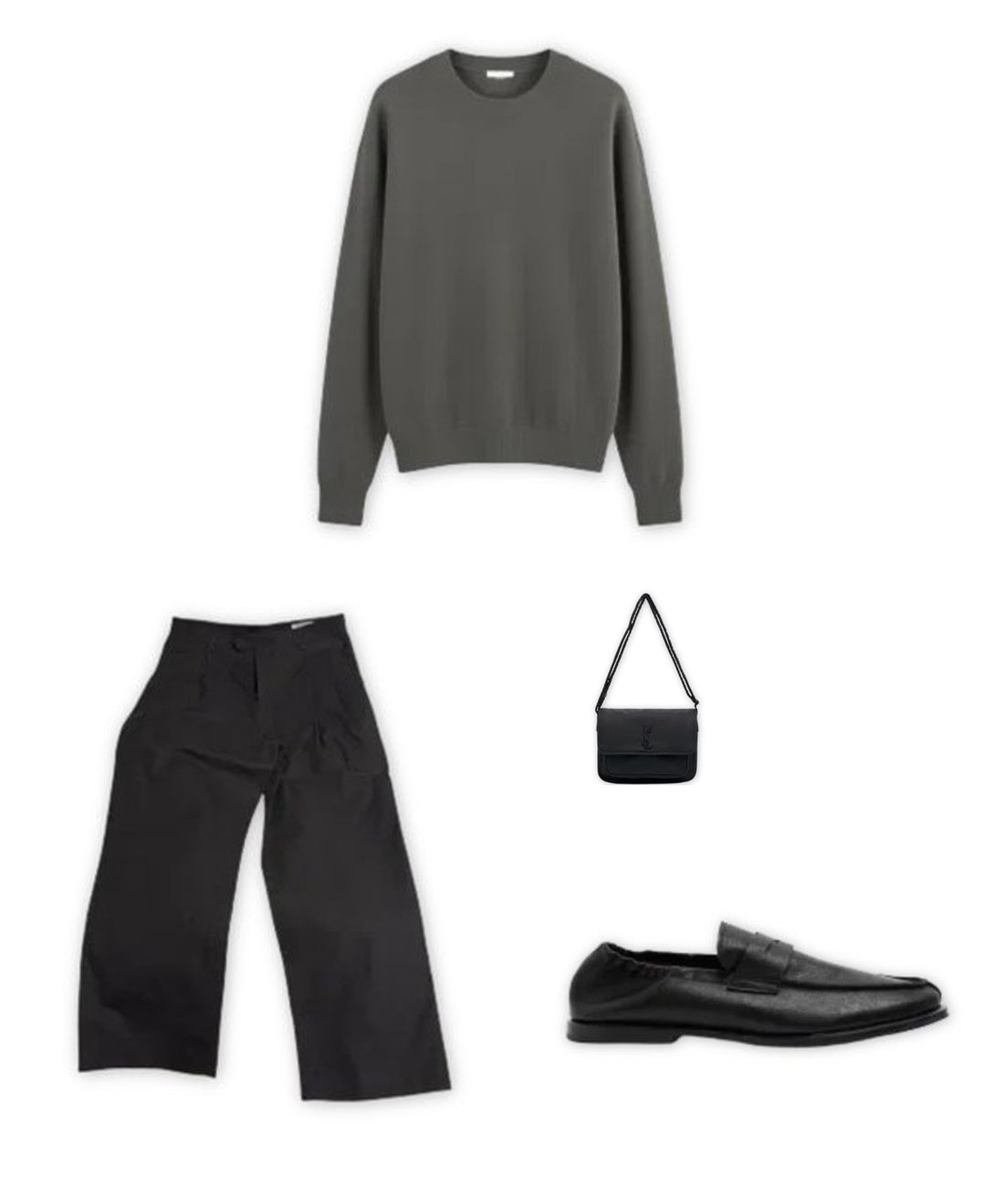
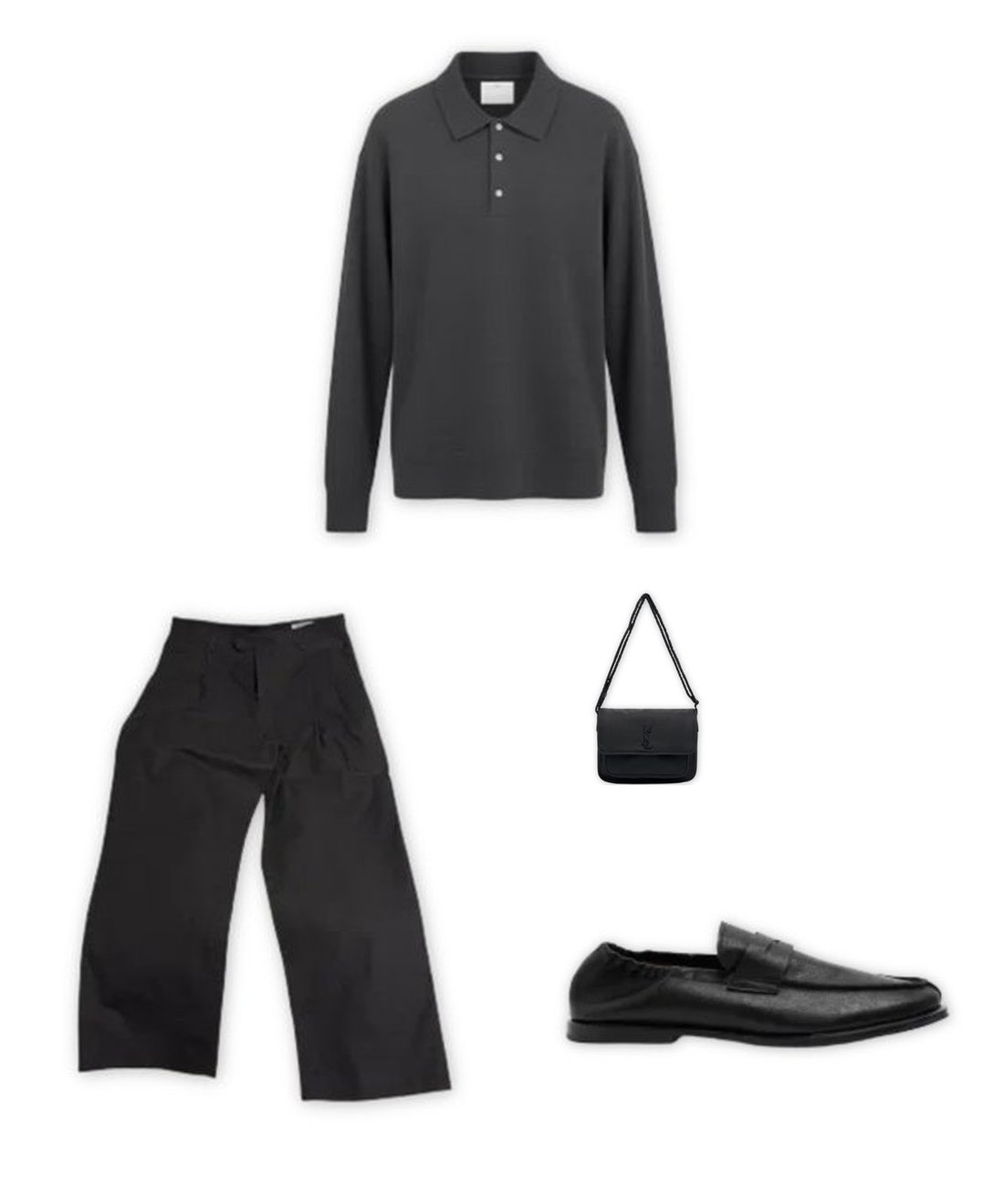
Trip: navy Margiela coat, Pottery charcoal polo knit for day 2

Changed region(s): [[0.3091, 0.0308, 0.68, 0.4615]]

diff --git a/docs/archive/2026-11-17.html b/docs/archive/2026-11-17.html
@@ -72,7 +72,7 @@ footer { font-size:12px; color:var(--muted); }
 <div class="ribbon"><span class="chip">부산 기장군 · 흐리고 저녁부터 비</span><span class="chip">기온 <b>12° / 17°</b></span>
 <span class="chip rain">강수확률 <b>60%</b></span><span class="chip tpo">1박 2일 바닷가 리조트 · 첫째 날</span></div>
 <p class="note">낮엔 17° 안팎으로 포근하지만 바닷바람이 차고, 저녁부터 새벽까지 비가 와요. 낮엔 니트 집업 하나로, 저녁엔 퀼팅 코트를 더하세요. 사용자가 알려준 1박 2일 바닷가 리조트 일정이에요. 편안함과 고급스러움을 함께 원해서, 부드러운 니트와 와이드 바지에 좋은 브랜드 아우터를 더했어요.</p>
-<div class="switch"><button type="button" class="ghost" id="prev" disabled>이전 코디</button><button type="button" id="next">다른 코디 추천</button><span class="count" id="count">1 / 2</span></div><div id="outfits"><article class="outfit main" data-i="0"><figure><img src="../img/2026-11-17-1.jpg" alt="ZAVANAS 블랙 긴팔 티 + STONE ISLAND 네이비 니트 집업 코디" loading="lazy"></figure><div class="desc"><div class="otitle"><span class="badge">추천</span><h3>ZAVANAS 블랙 긴팔 티 + STONE ISLAND 네이비 니트 집업</h3></div><p class="why">이동하고 바닷가를 걷는 낮 코디예요. 블랙 긴팔 티와 블랙 와이드 바지 위에 스톤아일랜드 네이비 니트 집업 하나로 포인트를 줬어요. 안은 가볍게, 겉은 좋은 니트로 입어 편하면서 고급스러워요.</p><ul class="items"><li><img class="thumb" src="../items/top-035.jpg" alt="" loading="lazy"><div><span class="part">긴팔 티</span><strong>ZAVANAS 블랙 긴팔 티</strong><p>니트 집업 안에 가볍게 입는 긴팔 티예요. 잘 때 입어도 돼요.</p></div></li><li><img class="thumb" src="../items/outer-006.jpg" alt="" loading="lazy"><div><span class="part">니트 집업</span><strong>STONE ISLAND 네이비 니트 집업</strong><p>유일한 포인트 컬러(네이비)예요.</p></div></li><li><img class="thumb" src="../items/bottom-034.jpg" alt="" loading="lazy"><div><span class="part">긴바지</span><strong>블랭크룸 블랙 와이드 긴바지</strong><p>편한 와이드 바지예요. 이틀 내내 입어요.</p></div></li><li><img class="thumb" src="../items/shoes-005.jpg" alt="" loading="lazy"><div><span class="part">로퍼</span><strong>로스트가든 블랙 레더 로퍼</strong><p>말랑한 레더 로퍼라 걷기 편하고 비에도 괜찮아요. 이틀 내내 신어요.</p></div></li><li><img class="thumb" src="../items/acc-001.jpg" alt="" loading="lazy"><div><span class="part">크로스백</span><strong>생로랑 블랙 나일론 크로스백</strong><p>비에 강한 나일론 크로스백이에요.</p></div></li></ul></div></article><article class="outfit main" data-i="1" hidden><figure><img src="../img/2026-11-17-2.jpg" alt="저녁 다이닝: 같은 옷 + 메종 마르지엘라 블랙 퀼팅 코트 코디" loading="lazy"></figure><div class="desc"><div class="otitle"><span class="badge alt">대안</span><h3>저녁 다이닝: 같은 옷 + 메종 마르지엘라 블랙 퀼팅 코트</h3></div><p class="why">옷을 갈아입지 않고 마르지엘라 퀼팅 코트와 실버 반지만 더해 저녁 자리에 맞췄어요. 짐을 늘리지 않으면서 비와 바람도 막아요.</p><ul class="items"><li><img class="thumb" src="../items/top-035.jpg" alt="" loading="lazy"><div><span class="part">긴팔 티</span><strong>ZAVANAS 블랙 긴팔 티</strong><p>낮에 입은 그대로예요.</p></div></li><li><img class="thumb" src="../items/outer-006.jpg" alt="" loading="lazy"><div><span class="part">니트 집업</span><strong>STONE ISLAND 네이비 니트 집업</strong><p>코트 안에 입어요.</p></div></li><li><img class="thumb" src="../items/outer-003.jpg" alt="" loading="lazy"><div><span class="part">코트</span><strong>메종 마르지엘라 블랙 퀼팅 코트</strong><p>저녁 비와 바람을 막는 코트예요. 둘째 날에도 입어요.</p></div></li><li><img class="thumb" src="../items/bottom-034.jpg" alt="" loading="lazy"><div><span class="part">긴바지</span><strong>블랭크룸 블랙 와이드 긴바지</strong><p>낮에 입은 그대로예요.</p></div></li><li><img class="thumb" src="../items/shoes-005.jpg" alt="" loading="lazy"><div><span class="part">로퍼</span><strong>로스트가든 블랙 레더 로퍼</strong><p>낮에 신은 그대로예요.</p></div></li><li><img class="thumb" src="../items/acc-004.jpg" alt="" loading="lazy"><div><span class="part">반지</span><strong>메종 마르지엘라 실버 반지</strong><p>실버 반지로 저녁 자리 디테일을 더해요.</p></div></li></ul></div></article></div><section class="refs"><h2>참고한 스타일</h2><ul><li><a href="https://www.allurekorea.com/2026/10/04/%eb%bb%94%ed%95%9c-%ea%b0%80%ec%a3%bd-%ec%9e%ac%ed%82%b7%ec%9d%b4-%ec%a7%80%ea%b2%b9%eb%8b%a4%eb%a9%b4-%ec%98%ac%ea%b0%80%ec%9d%84%ec%97%94-%ec%9d%b4%ea%b2%83%ec%9d%84-%ec%9e%85/" target="_blank" rel="noopener">얼루어코리아 · 뻔한 가죽 재킷이 지겹다면 올가을엔 이것을 입어</a></li><li><a href="https://www.gqkorea.co.kr/2024/11/21/%EA%B0%80%EC%A3%BD-%EC%9E%AC%ED%82%B7%EC%9D%98-%EB%A9%8B%EC%9D%84-%EB%AA%A8%EB%A5%B4%EB%8A%94-%EB%8B%B9%EC%8B%A0%EC%9D%B4-%EC%9D%BD%EC%96%B4%EC%95%BC-%ED%95%A0-%EC%B5%9C%EC%8B%A0-%EA%B0%80%EC%A3%BD/" target="_blank" rel="noopener">GQ코리아 · 가죽 재킷의 멋을 모르는 당신이 읽어야 할 최신 가죽</a></li><li><a href="https://sanvt.com/journal/monochrome-outfits-for-men/" target="_blank" rel="noopener">SANVT · Monochrome outfits for men</a></li></ul></section>
+<div class="switch"><button type="button" class="ghost" id="prev" disabled>이전 코디</button><button type="button" id="next">다른 코디 추천</button><span class="count" id="count">1 / 2</span></div><div id="outfits"><article class="outfit main" data-i="0"><figure><img src="../img/2026-11-17-1.jpg" alt="ZAVANAS 블랙 긴팔 티 + STONE ISLAND 네이비 니트 집업 코디" loading="lazy"></figure><div class="desc"><div class="otitle"><span class="badge">추천</span><h3>ZAVANAS 블랙 긴팔 티 + STONE ISLAND 네이비 니트 집업</h3></div><p class="why">이동하고 바닷가를 걷는 낮 코디예요. 블랙 긴팔 티와 블랙 와이드 바지 위에 스톤아일랜드 네이비 니트 집업 하나로 포인트를 줬어요. 안은 가볍게, 겉은 좋은 니트로 입어 편하면서 고급스러워요.</p><ul class="items"><li><img class="thumb" src="../items/top-035.jpg" alt="" loading="lazy"><div><span class="part">긴팔 티</span><strong>ZAVANAS 블랙 긴팔 티</strong><p>니트 집업 안에 가볍게 입는 긴팔 티예요. 잘 때 입어도 돼요.</p></div></li><li><img class="thumb" src="../items/outer-006.jpg" alt="" loading="lazy"><div><span class="part">니트 집업</span><strong>STONE ISLAND 네이비 니트 집업</strong><p>유일한 포인트 컬러(네이비)예요.</p></div></li><li><img class="thumb" src="../items/bottom-034.jpg" alt="" loading="lazy"><div><span class="part">긴바지</span><strong>블랭크룸 블랙 와이드 긴바지</strong><p>편한 와이드 바지예요. 이틀 내내 입어요.</p></div></li><li><img class="thumb" src="../items/shoes-005.jpg" alt="" loading="lazy"><div><span class="part">로퍼</span><strong>로스트가든 블랙 레더 로퍼</strong><p>말랑한 레더 로퍼라 걷기 편하고 비에도 괜찮아요. 이틀 내내 신어요.</p></div></li><li><img class="thumb" src="../items/acc-001.jpg" alt="" loading="lazy"><div><span class="part">크로스백</span><strong>생로랑 블랙 나일론 크로스백</strong><p>비에 강한 나일론 크로스백이에요.</p></div></li></ul></div></article><article class="outfit main" data-i="1" hidden><figure><img src="../img/2026-11-17-2.jpg" alt="저녁 다이닝: 같은 옷 + 메종 마르지엘라 네이비 퀼팅 코트 코디" loading="lazy"></figure><div class="desc"><div class="otitle"><span class="badge alt">대안</span><h3>저녁 다이닝: 같은 옷 + 메종 마르지엘라 네이비 퀼팅 코트</h3></div><p class="why">옷을 갈아입지 않고 마르지엘라 퀼팅 코트와 실버 반지만 더해 저녁 자리에 맞췄어요. 짐을 늘리지 않으면서 비와 바람도 막아요.</p><ul class="items"><li><img class="thumb" src="../items/top-035.jpg" alt="" loading="lazy"><div><span class="part">긴팔 티</span><strong>ZAVANAS 블랙 긴팔 티</strong><p>낮에 입은 그대로예요.</p></div></li><li><img class="thumb" src="../items/outer-006.jpg" alt="" loading="lazy"><div><span class="part">니트 집업</span><strong>STONE ISLAND 네이비 니트 집업</strong><p>코트 안에 입어요.</p></div></li><li><img class="thumb" src="../items/outer-021.jpg" alt="" loading="lazy"><div><span class="part">코트</span><strong>MASION MARGIELA 네이비 퀼팅 코트</strong><p>저녁 비와 바람을 막는 코트예요. 둘째 날에도 입어요.</p></div></li><li><img class="thumb" src="../items/bottom-034.jpg" alt="" loading="lazy"><div><span class="part">긴바지</span><strong>블랭크룸 블랙 와이드 긴바지</strong><p>낮에 입은 그대로예요.</p></div></li><li><img class="thumb" src="../items/shoes-005.jpg" alt="" loading="lazy"><div><span class="part">로퍼</span><strong>로스트가든 블랙 레더 로퍼</strong><p>낮에 신은 그대로예요.</p></div></li><li><img class="thumb" src="../items/acc-004.jpg" alt="" loading="lazy"><div><span class="part">반지</span><strong>메종 마르지엘라 실버 반지</strong><p>실버 반지로 저녁 자리 디테일을 더해요.</p></div></li></ul></div></article></div><section class="refs"><h2>참고한 스타일</h2><ul><li><a href="https://www.allurekorea.com/2026/10/04/%eb%bb%94%ed%95%9c-%ea%b0%80%ec%a3%bd-%ec%9e%ac%ed%82%b7%ec%9d%b4-%ec%a7%80%ea%b2%b9%eb%8b%a4%eb%a9%b4-%ec%98%ac%ea%b0%80%ec%9d%84%ec%97%94-%ec%9d%b4%ea%b2%83%ec%9d%84-%ec%9e%85/" target="_blank" rel="noopener">얼루어코리아 · 뻔한 가죽 재킷이 지겹다면 올가을엔 이것을 입어</a></li><li><a href="https://www.gqkorea.co.kr/2024/11/21/%EA%B0%80%EC%A3%BD-%EC%9E%AC%ED%82%B7%EC%9D%98-%EB%A9%8B%EC%9D%84-%EB%AA%A8%EB%A5%B4%EB%8A%94-%EB%8B%B9%EC%8B%A0%EC%9D%B4-%EC%9D%BD%EC%96%B4%EC%95%BC-%ED%95%A0-%EC%B5%9C%EC%8B%A0-%EA%B0%80%EC%A3%BD/" target="_blank" rel="noopener">GQ코리아 · 가죽 재킷의 멋을 모르는 당신이 읽어야 할 최신 가죽</a></li><li><a href="https://sanvt.com/journal/monochrome-outfits-for-men/" target="_blank" rel="noopener">SANVT · Monochrome outfits for men</a></li></ul></section>
 <footer>사진은 Acloset에 등록한 내 옷이에요.</footer></div>
 <script>
 (function(){

diff --git a/docs/index.html b/docs/index.html
@@ -72,7 +72,7 @@ footer { font-size:12px; color:var(--muted); }
 <div class="ribbon"><span class="chip">부산 기장군 · 비 그친 뒤 쌀쌀</span><span class="chip">기온 <b>7° / 13°</b></span>
 <span class="chip rain">강수확률 <b>43%</b></span><span class="chip tpo">1박 2일 바닷가 리조트 · 둘째 날</span></div>
 <p class="note">전날 비가 그친 뒤 기온이 7~13°로 떨어져요. 아침 바닷가는 더 쌀쌀하니 도톰한 니트에 코트까지 입으세요. 사용자가 알려준 1박 2일 일정의 둘째 날이에요. 아침 산책 후 체크아웃해서 돌아오는 날이라 편한 코디로 골랐어요.</p>
-<div class="switch"><button type="button" class="ghost" id="prev" disabled>이전 코디</button><button type="button" id="next">다른 코디 추천</button><span class="count" id="count">1 / 2</span></div><div id="outfits"><article class="outfit main" data-i="0"><figure><img src="img/2026-11-18-1.jpg" alt="브라운야드 딥그린 니트 + 메종 마르지엘라 블랙 퀼팅 코트 코디" loading="lazy"></figure><div class="desc"><div class="otitle"><span class="badge">추천</span><h3>브라운야드 딥그린 니트 + 메종 마르지엘라 블랙 퀼팅 코트</h3></div><p class="why">둘째 날은 브라운야드 딥그린 니트에 마르지엘라 코트만 걸쳐요. 블랙 바지와 코트 사이에서 딥그린이 유일한 포인트 컬러가 돼요. 7~13° 날씨에 니트와 코트면 충분하고, 가방에 니트 한 장만 더 넣으면 돼요.</p><ul class="items"><li><img class="thumb" src="items/top-025.jpg" alt="" loading="lazy"><div><span class="part">니트</span><strong>브라운야드 딥그린 니트</strong><p>가방에 챙겨 가는 유일한 여벌 상의예요.</p></div></li><li><img class="thumb" src="items/outer-003.jpg" alt="" loading="lazy"><div><span class="part">코트</span><strong>메종 마르지엘라 블랙 퀼팅 코트</strong><p>첫날 저녁에 입은 코트예요.</p></div></li><li><img class="thumb" src="items/bottom-034.jpg" alt="" loading="lazy"><div><span class="part">긴바지</span><strong>블랭크룸 블랙 와이드 긴바지</strong><p>첫날 입은 와이드 바지예요.</p></div></li><li><img class="thumb" src="items/shoes-005.jpg" alt="" loading="lazy"><div><span class="part">로퍼</span><strong>로스트가든 블랙 레더 로퍼</strong><p>첫날 신은 로퍼예요.</p></div></li><li><img class="thumb" src="items/acc-001.jpg" alt="" loading="lazy"><div><span class="part">크로스백</span><strong>생로랑 블랙 나일론 크로스백</strong><p>첫날 든 크로스백이에요.</p></div></li></ul></div></article><article class="outfit main" data-i="1" hidden><figure><img src="img/2026-11-18-2.jpg" alt="포근하면: 브라운야드 딥그린 니트만 코디" loading="lazy"></figure><div class="desc"><div class="otitle"><span class="badge alt">대안</span><h3>포근하면: 브라운야드 딥그린 니트만</h3></div><p class="why">낮에 포근하거나 차로만 이동하면 코트는 들고 니트만 입어도 돼요.</p><ul class="items"><li><img class="thumb" src="items/top-025.jpg" alt="" loading="lazy"><div><span class="part">니트</span><strong>브라운야드 딥그린 니트</strong></div></li><li><img class="thumb" src="items/bottom-034.jpg" alt="" loading="lazy"><div><span class="part">긴바지</span><strong>블랭크룸 블랙 와이드 긴바지</strong></div></li><li><img class="thumb" src="items/shoes-005.jpg" alt="" loading="lazy"><div><span class="part">로퍼</span><strong>로스트가든 블랙 레더 로퍼</strong></div></li><li><img class="thumb" src="items/acc-001.jpg" alt="" loading="lazy"><div><span class="part">크로스백</span><strong>생로랑 블랙 나일론 크로스백</strong></div></li></ul></div></article></div><section class="refs"><h2>참고한 스타일</h2><ul><li><a href="https://www.allurekorea.com/2026/10/04/%eb%bb%94%ed%95%9c-%ea%b0%80%ec%a3%bd-%ec%9e%ac%ed%82%b7%ec%9d%b4-%ec%a7%80%ea%b2%b9%eb%8b%a4%eb%a9%b4-%ec%98%ac%ea%b0%80%ec%9d%84%ec%97%94-%ec%9d%b4%ea%b2%83%ec%9d%84-%ec%9e%85/" target="_blank" rel="noopener">얼루어코리아 · 뻔한 가죽 재킷이 지겹다면 올가을엔 이것을 입어</a></li><li><a href="https://www.gqkorea.co.kr/2024/11/21/%EA%B0%80%EC%A3%BD-%EC%9E%AC%ED%82%B7%EC%9D%98-%EB%A9%8B%EC%9D%84-%EB%AA%A8%EB%A5%B4%EB%8A%94-%EB%8B%B9%EC%8B%A0%EC%9D%B4-%EC%9D%BD%EC%96%B4%EC%95%BC-%ED%95%A0-%EC%B5%9C%EC%8B%A0-%EA%B0%80%EC%A3%BD/" target="_blank" rel="noopener">GQ코리아 · 가죽 재킷의 멋을 모르는 당신이 읽어야 할 최신 가죽</a></li><li><a href="https://sanvt.com/journal/monochrome-outfits-for-men/" target="_blank" rel="noopener">SANVT · Monochrome outfits for men</a></li></ul></section><section><h2>지난 코디</h2><div class="strip"><a href="archive/2026-11-17.html"><img src="img/2026-11-17-1.jpg" alt="" loading="lazy"><span>11월 17일 (화)<br>ZAVANAS 블랙 긴팔 티 + STONE ISLAND 네이비 니트 집업</span></a><a href="archive/2026-11-16.html"><img src="img/2026-11-16-1.jpg" alt="" loading="lazy"><span>11월 16일 (월)<br>브라운야드 블랙 니트 + TIME HOMME 차콜 재킷</span></a><a href="archive/2026-11-15.html"><img src="img/2026-11-15-1.jpg" alt="" loading="lazy"><span>11월 15일 (일)<br>그레이 터틀넥 니트 + SYSTEM HOMME 블랙 블레이저</span></a></div></section>
+<div class="switch"><button type="button" class="ghost" id="prev" disabled>이전 코디</button><button type="button" id="next">다른 코디 추천</button><span class="count" id="count">1 / 2</span></div><div id="outfits"><article class="outfit main" data-i="0"><figure><img src="img/2026-11-18-1.jpg" alt="POTTERY 차콜 폴로 니트 + 메종 마르지엘라 네이비 퀼팅 코트 코디" loading="lazy"></figure><div class="desc"><div class="otitle"><span class="badge">추천</span><h3>POTTERY 차콜 폴로 니트 + 메종 마르지엘라 네이비 퀼팅 코트</h3></div><p class="why">둘째 날은 포터리 차콜 폴로 니트에 마르지엘라 네이비 코트만 걸쳐요. 차콜과 블랙 사이에서 네이비 코트가 유일한 포인트 컬러가 돼요. 카라가 있어 단정하고, 가방에 니트 한 장만 더 넣으면 돼요.</p><ul class="items"><li><img class="thumb" src="items/top-030.jpg" alt="" loading="lazy"><div><span class="part">니트</span><strong>POTTERY 차콜 폴로 니트</strong><p>가방에 챙겨 가는 유일한 여벌 상의예요.</p></div></li><li><img class="thumb" src="items/outer-021.jpg" alt="" loading="lazy"><div><span class="part">코트</span><strong>MASION MARGIELA 네이비 퀼팅 코트</strong><p>첫날 저녁에 입은 코트예요.</p></div></li><li><img class="thumb" src="items/bottom-034.jpg" alt="" loading="lazy"><div><span class="part">긴바지</span><strong>블랭크룸 블랙 와이드 긴바지</strong><p>첫날 입은 와이드 바지예요.</p></div></li><li><img class="thumb" src="items/shoes-005.jpg" alt="" loading="lazy"><div><span class="part">로퍼</span><strong>로스트가든 블랙 레더 로퍼</strong><p>첫날 신은 로퍼예요.</p></div></li><li><img class="thumb" src="items/acc-001.jpg" alt="" loading="lazy"><div><span class="part">크로스백</span><strong>생로랑 블랙 나일론 크로스백</strong><p>첫날 든 크로스백이에요.</p></div></li></ul></div></article><article class="outfit main" data-i="1" hidden><figure><img src="img/2026-11-18-2.jpg" alt="포근하면: POTTERY 차콜 폴로 니트만 코디" loading="lazy"></figure><div class="desc"><div class="otitle"><span class="badge alt">대안</span><h3>포근하면: POTTERY 차콜 폴로 니트만</h3></div><p class="why">낮에 포근하거나 차로만 이동하면 코트는 들고 니트만 입어도 돼요.</p><ul class="items"><li><img class="thumb" src="items/top-030.jpg" alt="" loading="lazy"><div><span class="part">니트</span><strong>POTTERY 차콜 폴로 니트</strong></div></li><li><img class="thumb" src="items/bottom-034.jpg" alt="" loading="lazy"><div><span class="part">긴바지</span><strong>블랭크룸 블랙 와이드 긴바지</strong></div></li><li><img class="thumb" src="items/shoes-005.jpg" alt="" loading="lazy"><div><span class="part">로퍼</span><strong>로스트가든 블랙 레더 로퍼</strong></div></li><li><img class="thumb" src="items/acc-001.jpg" alt="" loading="lazy"><div><span class="part">크로스백</span><strong>생로랑 블랙 나일론 크로스백</strong></div></li></ul></div></article></div><section class="refs"><h2>참고한 스타일</h2><ul><li><a href="https://www.allurekorea.com/2026/10/04/%eb%bb%94%ed%95%9c-%ea%b0%80%ec%a3%bd-%ec%9e%ac%ed%82%b7%ec%9d%b4-%ec%a7%80%ea%b2%b9%eb%8b%a4%eb%a9%b4-%ec%98%ac%ea%b0%80%ec%9d%84%ec%97%94-%ec%9d%b4%ea%b2%83%ec%9d%84-%ec%9e%85/" target="_blank" rel="noopener">얼루어코리아 · 뻔한 가죽 재킷이 지겹다면 올가을엔 이것을 입어</a></li><li><a href="https://www.gqkorea.co.kr/2024/11/21/%EA%B0%80%EC%A3%BD-%EC%9E%AC%ED%82%B7%EC%9D%98-%EB%A9%8B%EC%9D%84-%EB%AA%A8%EB%A5%B4%EB%8A%94-%EB%8B%B9%EC%8B%A0%EC%9D%B4-%EC%9D%BD%EC%96%B4%EC%95%BC-%ED%95%A0-%EC%B5%9C%EC%8B%A0-%EA%B0%80%EC%A3%BD/" target="_blank" rel="noopener">GQ코리아 · 가죽 재킷의 멋을 모르는 당신이 읽어야 할 최신 가죽</a></li><li><a href="https://sanvt.com/journal/monochrome-outfits-for-men/" target="_blank" rel="noopener">SANVT · Monochrome outfits for men</a></li></ul></section><section><h2>지난 코디</h2><div class="strip"><a href="archive/2026-11-17.html"><img src="img/2026-11-17-1.jpg" alt="" loading="lazy"><span>11월 17일 (화)<br>ZAVANAS 블랙 긴팔 티 + STONE ISLAND 네이비 니트 집업</span></a><a href="archive/2026-11-16.html"><img src="img/2026-11-16-1.jpg" alt="" loading="lazy"><span>11월 16일 (월)<br>브라운야드 블랙 니트 + TIME HOMME 차콜 재킷</span></a><a href="archive/2026-11-15.html"><img src="img/2026-11-15-1.jpg" alt="" loading="lazy"><span>11월 15일 (일)<br>그레이 터틀넥 니트 + SYSTEM HOMME 블랙 블레이저</span></a></div></section>
 <footer>사진은 Acloset에 등록한 내 옷이에요.</footer></div>
 <script>
 (function(){

diff --git a/docs/archive/2026-11-18.html b/docs/archive/2026-11-18.html
@@ -72,7 +72,7 @@ footer { font-size:12px; color:var(--muted); }
 <div class="ribbon"><span class="chip">부산 기장군 · 비 그친 뒤 쌀쌀</span><span class="chip">기온 <b>7° / 13°</b></span>
 <span class="chip rain">강수확률 <b>43%</b></span><span class="chip tpo">1박 2일 바닷가 리조트 · 둘째 날</span></div>
 <p class="note">전날 비가 그친 뒤 기온이 7~13°로 떨어져요. 아침 바닷가는 더 쌀쌀하니 도톰한 니트에 코트까지 입으세요. 사용자가 알려준 1박 2일 일정의 둘째 날이에요. 아침 산책 후 체크아웃해서 돌아오는 날이라 편한 코디로 골랐어요.</p>
-<div class="switch"><button type="button" class="ghost" id="prev" disabled>이전 코디</button><button type="button" id="next">다른 코디 추천</button><span class="count" id="count">1 / 2</span></div><div id="outfits"><article class="outfit main" data-i="0"><figure><img src="../img/2026-11-18-1.jpg" alt="브라운야드 딥그린 니트 + 메종 마르지엘라 블랙 퀼팅 코트 코디" loading="lazy"></figure><div class="desc"><div class="otitle"><span class="badge">추천</span><h3>브라운야드 딥그린 니트 + 메종 마르지엘라 블랙 퀼팅 코트</h3></div><p class="why">둘째 날은 브라운야드 딥그린 니트에 마르지엘라 코트만 걸쳐요. 블랙 바지와 코트 사이에서 딥그린이 유일한 포인트 컬러가 돼요. 7~13° 날씨에 니트와 코트면 충분하고, 가방에 니트 한 장만 더 넣으면 돼요.</p><ul class="items"><li><img class="thumb" src="../items/top-025.jpg" alt="" loading="lazy"><div><span class="part">니트</span><strong>브라운야드 딥그린 니트</strong><p>가방에 챙겨 가는 유일한 여벌 상의예요.</p></div></li><li><img class="thumb" src="../items/outer-003.jpg" alt="" loading="lazy"><div><span class="part">코트</span><strong>메종 마르지엘라 블랙 퀼팅 코트</strong><p>첫날 저녁에 입은 코트예요.</p></div></li><li><img class="thumb" src="../items/bottom-034.jpg" alt="" loading="lazy"><div><span class="part">긴바지</span><strong>블랭크룸 블랙 와이드 긴바지</strong><p>첫날 입은 와이드 바지예요.</p></div></li><li><img class="thumb" src="../items/shoes-005.jpg" alt="" loading="lazy"><div><span class="part">로퍼</span><strong>로스트가든 블랙 레더 로퍼</strong><p>첫날 신은 로퍼예요.</p></div></li><li><img class="thumb" src="../items/acc-001.jpg" alt="" loading="lazy"><div><span class="part">크로스백</span><strong>생로랑 블랙 나일론 크로스백</strong><p>첫날 든 크로스백이에요.</p></div></li></ul></div></article><article class="outfit main" data-i="1" hidden><figure><img src="../img/2026-11-18-2.jpg" alt="포근하면: 브라운야드 딥그린 니트만 코디" loading="lazy"></figure><div class="desc"><div class="otitle"><span class="badge alt">대안</span><h3>포근하면: 브라운야드 딥그린 니트만</h3></div><p class="why">낮에 포근하거나 차로만 이동하면 코트는 들고 니트만 입어도 돼요.</p><ul class="items"><li><img class="thumb" src="../items/top-025.jpg" alt="" loading="lazy"><div><span class="part">니트</span><strong>브라운야드 딥그린 니트</strong></div></li><li><img class="thumb" src="../items/bottom-034.jpg" alt="" loading="lazy"><div><span class="part">긴바지</span><strong>블랭크룸 블랙 와이드 긴바지</strong></div></li><li><img class="thumb" src="../items/shoes-005.jpg" alt="" loading="lazy"><div><span class="part">로퍼</span><strong>로스트가든 블랙 레더 로퍼</strong></div></li><li><img class="thumb" src="../items/acc-001.jpg" alt="" loading="lazy"><div><span class="part">크로스백</span><strong>생로랑 블랙 나일론 크로스백</strong></div></li></ul></div></article></div><section class="refs"><h2>참고한 스타일</h2><ul><li><a href="https://www.allurekorea.com/2026/10/04/%eb%bb%94%ed%95%9c-%ea%b0%80%ec%a3%bd-%ec%9e%ac%ed%82%b7%ec%9d%b4-%ec%a7%80%ea%b2%b9%eb%8b%a4%eb%a9%b4-%ec%98%ac%ea%b0%80%ec%9d%84%ec%97%94-%ec%9d%b4%ea%b2%83%ec%9d%84-%ec%9e%85/" target="_blank" rel="noopener">얼루어코리아 · 뻔한 가죽 재킷이 지겹다면 올가을엔 이것을 입어</a></li><li><a href="https://www.gqkorea.co.kr/2024/11/21/%EA%B0%80%EC%A3%BD-%EC%9E%AC%ED%82%B7%EC%9D%98-%EB%A9%8B%EC%9D%84-%EB%AA%A8%EB%A5%B4%EB%8A%94-%EB%8B%B9%EC%8B%A0%EC%9D%B4-%EC%9D%BD%EC%96%B4%EC%95%BC-%ED%95%A0-%EC%B5%9C%EC%8B%A0-%EA%B0%80%EC%A3%BD/" target="_blank" rel="noopener">GQ코리아 · 가죽 재킷의 멋을 모르는 당신이 읽어야 할 최신 가죽</a></li><li><a href="https://sanvt.com/journal/monochrome-outfits-for-men/" target="_blank" rel="noopener">SANVT · Monochrome outfits for men</a></li></ul></section>
+<div class="switch"><button type="button" class="ghost" id="prev" disabled>이전 코디</button><button type="button" id="next">다른 코디 추천</button><span class="count" id="count">1 / 2</span></div><div id="outfits"><article class="outfit main" data-i="0"><figure><img src="../img/2026-11-18-1.jpg" alt="POTTERY 차콜 폴로 니트 + 메종 마르지엘라 네이비 퀼팅 코트 코디" loading="lazy"></figure><div class="desc"><div class="otitle"><span class="badge">추천</span><h3>POTTERY 차콜 폴로 니트 + 메종 마르지엘라 네이비 퀼팅 코트</h3></div><p class="why">둘째 날은 포터리 차콜 폴로 니트에 마르지엘라 네이비 코트만 걸쳐요. 차콜과 블랙 사이에서 네이비 코트가 유일한 포인트 컬러가 돼요. 카라가 있어 단정하고, 가방에 니트 한 장만 더 넣으면 돼요.</p><ul class="items"><li><img class="thumb" src="../items/top-030.jpg" alt="" loading="lazy"><div><span class="part">니트</span><strong>POTTERY 차콜 폴로 니트</strong><p>가방에 챙겨 가는 유일한 여벌 상의예요.</p></div></li><li><img class="thumb" src="../items/outer-021.jpg" alt="" loading="lazy"><div><span class="part">코트</span><strong>MASION MARGIELA 네이비 퀼팅 코트</strong><p>첫날 저녁에 입은 코트예요.</p></div></li><li><img class="thumb" src="../items/bottom-034.jpg" alt="" loading="lazy"><div><span class="part">긴바지</span><strong>블랭크룸 블랙 와이드 긴바지</strong><p>첫날 입은 와이드 바지예요.</p></div></li><li><img class="thumb" src="../items/shoes-005.jpg" alt="" loading="lazy"><div><span class="part">로퍼</span><strong>로스트가든 블랙 레더 로퍼</strong><p>첫날 신은 로퍼예요.</p></div></li><li><img class="thumb" src="../items/acc-001.jpg" alt="" loading="lazy"><div><span class="part">크로스백</span><strong>생로랑 블랙 나일론 크로스백</strong><p>첫날 든 크로스백이에요.</p></div></li></ul></div></article><article class="outfit main" data-i="1" hidden><figure><img src="../img/2026-11-18-2.jpg" alt="포근하면: POTTERY 차콜 폴로 니트만 코디" loading="lazy"></figure><div class="desc"><div class="otitle"><span class="badge alt">대안</span><h3>포근하면: POTTERY 차콜 폴로 니트만</h3></div><p class="why">낮에 포근하거나 차로만 이동하면 코트는 들고 니트만 입어도 돼요.</p><ul class="items"><li><img class="thumb" src="../items/top-030.jpg" alt="" loading="lazy"><div><span class="part">니트</span><strong>POTTERY 차콜 폴로 니트</strong></div></li><li><img class="thumb" src="../items/bottom-034.jpg" alt="" loading="lazy"><div><span class="part">긴바지</span><strong>블랭크룸 블랙 와이드 긴바지</strong></div></li><li><img class="thumb" src="../items/shoes-005.jpg" alt="" loading="lazy"><div><span class="part">로퍼</span><strong>로스트가든 블랙 레더 로퍼</strong></div></li><li><img class="thumb" src="../items/acc-001.jpg" alt="" loading="lazy"><div><span class="part">크로스백</span><strong>생로랑 블랙 나일론 크로스백</strong></div></li></ul></div></article></div><section class="refs"><h2>참고한 스타일</h2><ul><li><a href="https://www.allurekorea.com/2026/10/04/%eb%bb%94%ed%95%9c-%ea%b0%80%ec%a3%bd-%ec%9e%ac%ed%82%b7%ec%9d%b4-%ec%a7%80%ea%b2%b9%eb%8b%a4%eb%a9%b4-%ec%98%ac%ea%b0%80%ec%9d%84%ec%97%94-%ec%9d%b4%ea%b2%83%ec%9d%84-%ec%9e%85/" target="_blank" rel="noopener">얼루어코리아 · 뻔한 가죽 재킷이 지겹다면 올가을엔 이것을 입어</a></li><li><a href="https://www.gqkorea.co.kr/2024/11/21/%EA%B0%80%EC%A3%BD-%EC%9E%AC%ED%82%B7%EC%9D%98-%EB%A9%8B%EC%9D%84-%EB%AA%A8%EB%A5%B4%EB%8A%94-%EB%8B%B9%EC%8B%A0%EC%9D%B4-%EC%9D%BD%EC%96%B4%EC%95%BC-%ED%95%A0-%EC%B5%9C%EC%8B%A0-%EA%B0%80%EC%A3%BD/" target="_blank" rel="noopener">GQ코리아 · 가죽 재킷의 멋을 모르는 당신이 읽어야 할 최신 가죽</a></li><li><a href="https://sanvt.com/journal/monochrome-outfits-for-men/" target="_blank" rel="noopener">SANVT · Monochrome outfits for men</a></li></ul></section>
 <footer>사진은 Acloset에 등록한 내 옷이에요.</footer></div>
 <script>
 (function(){
